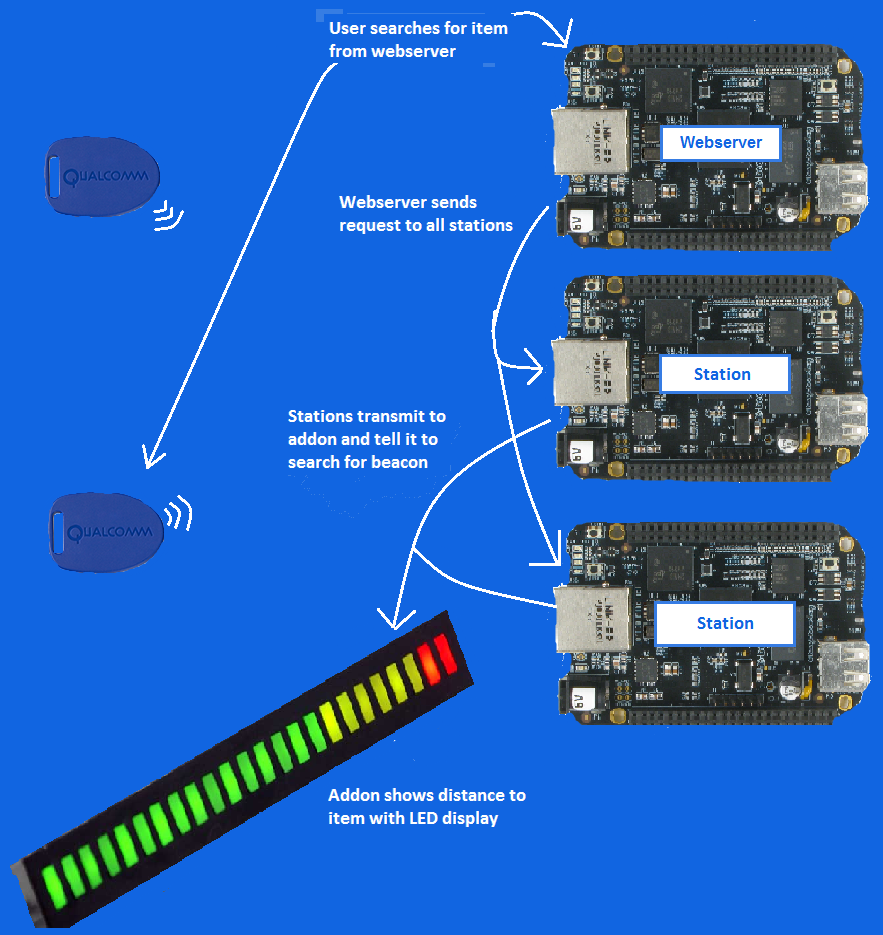
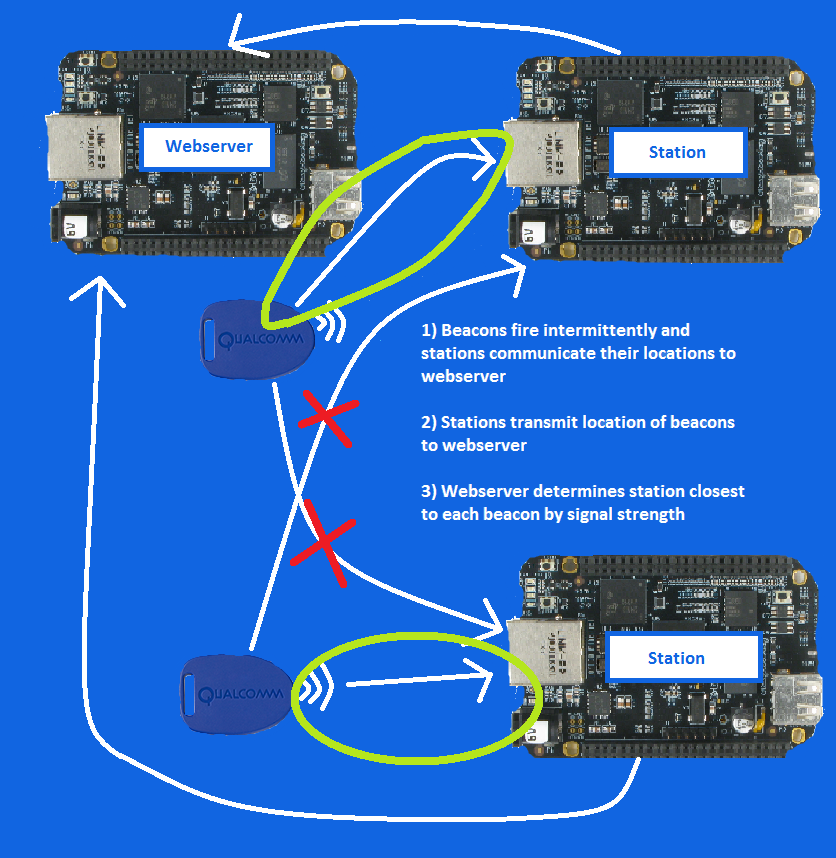
updated website for current specs

diff --git a/index.html b/index.html
@@ -100,27 +100,31 @@
                     <div class="column-left">
                         <h3><strong>Hardware Components</strong></h3>
                         <ul>
-                            <li><a href="http://www.adafruit.com/product/1876">Beaglebone Black - $55</a>
+                            <li><a href="http://www.adafruit.com/product/1876">Beaglebone Black - $55
+                                <div><img class="center explanationIMG" src="assets/img/bbb.jpg"/></div></a>
                                 <ul class="bullet">
                                     <li type="circle">1GHz  Sitara AM3358BZCZ100 CPU</li>
                                     <li type="circle">512MB RAM</li>
                                     <li type="circle">SBC running Debian</li>
                                     <li type="circle">Bluetooth+WiFi Cape</li>
+                                    <li><a><span class="help">Note: Add-on only uses bluetooth and has a custom pcb</span>
+                                          <div><img class="center explanationIMG" src="assets/img/pcb.jpg"/></div></a></li>
                                 </ul>
                             </li>
-                            <li><a href="https://store.gimbal.com/collections/beacons/products/s10">Gimbal Proximity Beacon Series 10 - $5</a>
+                            <li><a href="https://store.gimbal.com/collections/beacons/products/s10">Gimbal Proximity Beacon Series 10 - $5<div><img class="center explanationIMG" src="assets/img/gimbal.png"/></div></a>
                                 <ul class="bullet">
                                     <li type="circle">1.6in x 1.1in x 0.2in</li>
                                     <li type="circle">0.23oz</li>
-                                    <li type="circle">CR2032 replaceable battery up to 3 months</li>
+                                    <li type="circle">CR2032 Replaceable Battery</li>
                                 </ul>
                             </li>
-                            <li><a href="https://www.sparkfun.com/products/13208">RFduino $25.95</a>
+                            <li><a href="http://shop.udoo.org/usa/product/udoo-quad.html">UDOO Quad $0
+                              <div><img class="center explanationIMG" src="assets/img/udoo.jpg"/></div></a>
                                 <ul class="bullet">
-                                    <li type="circle">16MHz ARM Cortex-M0 CPU</li>
-                                    <li type="circle">8kb Ram</li>
-                                    <li type="circle">2.4 GHz Band Bluetooth LE RF</li>
-                                    <li type="circle">Transmit Power: 4dbm</li>
+                                    <li type="circle">1GHz Freescale i.MX 6 ARM Cortex-A9 CPU</li>
+                                    <li type="circle">1GB DDR3 RAM</li>
+                                    <li type="circle">Built-in WIFI Module</li>
+                                    <li type="circle">Additional BLE Adapter Added</li>
                                 </ul>
                             </li>
                         </ul>
@@ -133,9 +137,9 @@
                                     <li type="circle">Programming the stations using Debian distro</li>
                                 </ul>
                             </li>
-                            <li>Django
+                            <li><a href="https://www.meteor.com">Meteor</a>
                                 <ul class="bullet">
-                                    <li type="circle">To serve the website</li>
+                                    <li type="circle">To serve the webserver</li>
                                 </ul>
                             </li>
                         </ul>
@@ -177,27 +181,33 @@
                 <h2>Use Cases</h2>
                 <div class="explanation">
                   <div class="left">
-                    <h3>Normal Use</h3>
+                    <h3>Passive</h3>
                     <ul>
-                        <h3>Location</h3>
+                        <h3>Location Tracking</h3>
                         <li>+ First, set up stations and webserver on home WiFi</li>
                         <li>+ Place beacons on items to keep track of</li>
                         <li>+ Beacons fire intermittently and stations communicate their locations to webserver</li>
-                        <h3>Searching</h3>
+                        <li>+ Webserver keeps track of current location of all beacons</li>
+                        <!-- <h3>Searching</h3>
                         <li>+ Click search button for an item on webserver</li>
                         <li>+ Webserver sends a request to the all stations</li>
                         <li>+ Stations broadcast beacon id to add on and commands it to search for the item</li>
-                        <li>+ Add on will display distance to item through LEDs</li>
+                        <li>+ Add on will display distance to item through LEDs</li> -->
                     </ul>
                   </div>
 
                   <div class="right">
-                    <h3>Other Use</h3>
+                    <h3>Active</h3>
                     <ul>
-                        <h3>Tracking</h3>
-                        <li>+ User can wear a wristband that communicates location to the stations back to the webserver</li>
-                        <li>+ Webserver keeps track of last known locations as well as current location</li>
-                        <li>+ Webserver processes locations and can determine which users took which items</li>
+                      <h3>Searching</h3>
+                      <li>+ Click search button for an item on webserver</li>
+                      <li>+ Webserver sends a request to the all stations</li>
+                      <li>+ Stations broadcast beacon id to add on and commands it to search for the item</li>
+                      <li>+ Add on will display distance to item through LEDs</li>
+                      <!-- <h3>Tracking</h3>
+                      <li>+ User can wear a wristband that communicates location to the stations back to the webserver</li>
+                      <li>+ Webserver keeps track of current location of all</li>
+                      <li>+ Webserver processes locations and can determine which users took which items</li> -->
                     </ul>
                   </div>
                 </div>

diff --git a/assets/css/main.css b/assets/css/main.css
@@ -228,11 +228,23 @@ pre {
   margin-left: -15%;
 }
 
+
 .window:nth-child(5) .content .explanation li {
   font-family: BrandonText-Regular, Futura, Helvetica, Arial, sans-serif;
   font-size: 0.9em;
 }
 
+.window:nth-child(5) .content .explanation li .help {
+  font-size: 0.7em;
+}
+
+.window:nth-child(5) .content .explanation a>div {
+  display:none;
+}
+
+.window:nth-child(5) .content .explanation a:hover>div {
+  display:block;
+}
 
 .window:nth-child(6) .content {
   position: absolute;
@@ -293,9 +305,9 @@ pre {
 .window:nth-child(7) .content .explanation {
   font-family: BrandonText-Regular, Futura, Helvetica, Arial, sans-serif;
   color: #09161e;
-  font-size: 1.1em;
+  font-size: 1.0em;
   text-align: center;
-  padding: 0 10%;
+  padding: 0 5%;
 }
 .window:nth-child(7) .content .explanation .right {
   text-align: center;
@@ -331,7 +343,7 @@ pre {
   color: #030c11;
   font-size: 1.4em;
   text-align: center;
-  padding: 0 25%;
+  padding: 0 10%;
 }
 /*
 .window:nth-child(2) .content {
